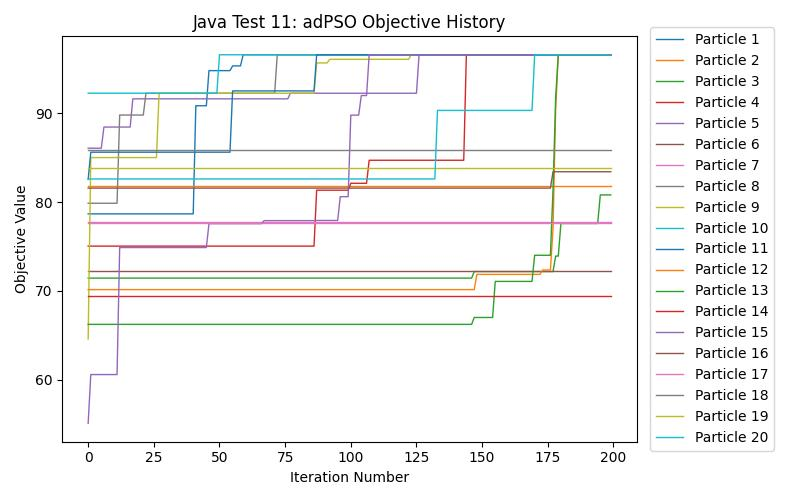
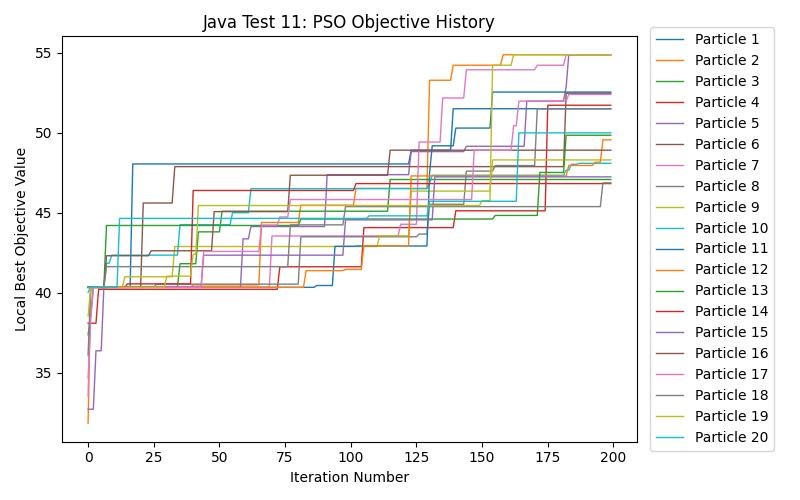
final plots for paper

diff --git a/psoscheduler-java/src/main/java/syslab/cloudcomputing/simulation/DataCenter.java b/psoscheduler-java/src/main/java/syslab/cloudcomputing/simulation/DataCenter.java
@@ -65,7 +65,8 @@ public abstract class DataCenter {
 		double makespan = this.computeMakespan();
     double throughput = (this.taskCount / makespan);
     double Wh = this._computeEnergyConsumptionkWh(makespan) * 1000.0;
-    return throughput + (0.1 / Wh);
+    double WhPerTask = Wh / (double) this.taskCount;
+    return throughput + (0.1 / WhPerTask);
 	}
 
   // Private version that doesn't recompute the makespan to prioritize efficiency
@@ -82,7 +83,7 @@ public abstract class DataCenter {
     }
 
     // Convert to kWh
-    energyConsumption *= 1.0 / 3600000.0;
+    energyConsumption /= 3600000.0;
 
     return energyConsumption;
   }

diff --git a/plot_objective_history.py b/plot_objective_history.py
@@ -9,9 +9,9 @@ def plot(test_id, language, particle_histories, path):
     plt.plot([i for i in range(len(particle_history))], particle_history, linewidth=1.0, label=f"Particle {i}")
     i += 1
 
-  plt.title(f"{language.capitalize()} Test {test_id}: adPSO Objective History")
+  plt.title(f"{language.capitalize()} Test {test_id}: PSO Objective History")
   plt.xlabel("Iteration Number")
-  plt.ylabel("Objective Value")
+  plt.ylabel("Local Best Objective Value")
   plt.legend(bbox_to_anchor = (1.25, 0.5), loc='center right')
   plt.tight_layout()
 

diff --git a/psoscheduler-java/src/main/java/syslab/cloudcomputing/pso/PSOSwarm.java b/psoscheduler-java/src/main/java/syslab/cloudcomputing/pso/PSOSwarm.java
@@ -41,7 +41,7 @@ public class PSOSwarm {
   private void initializeSwarm(int nParticles) {
     this.particles = new ArrayList<Particle>();
     for (int i = 0; i < nParticles; i++) {
-      Particle particle = new Particle(this.dataCenter, this.workload, Particle.InitializationStrategy.MCT);
+      Particle particle = new Particle(this.dataCenter, this.workload, Particle.InitializationStrategy.RANDOM);
       this.particles.add(particle);
     }
 

diff --git a/psoscheduler-rust/src/pso/particle.rs b/psoscheduler-rust/src/pso/particle.rs
@@ -36,7 +36,7 @@ impl Particle {
 
     for task in workload.get_sorted_tasks().iter() {
       let vm_id: usize;
-      if utilities::get_random_float(0., 1.) < 0.3 {
+      if utilities::get_random_float(0., 1.) < 0.25 {
         vm_id = utilities::get_random_integer(0, data_center.virtual_machines.len());
       } else {
         vm_id = data_center.get_min_eet_virtual_machine(task);

diff --git a/psoscheduler-rust/src/simulation/data_center.rs b/psoscheduler-rust/src/simulation/data_center.rs
@@ -87,10 +87,10 @@ impl DataCenter {
     }
 
     // Now we have joules, so divide it by the total number of seconds to get Watts=J/s
-    energy_consumption /= makespan as f32;
+    // energy_consumption /= makespan as f32;
 
     // Now, convert to kWh
-    energy_consumption *= 1. / 3600000.;
+    energy_consumption /= 3600000.;
 
     return energy_consumption;
   }
